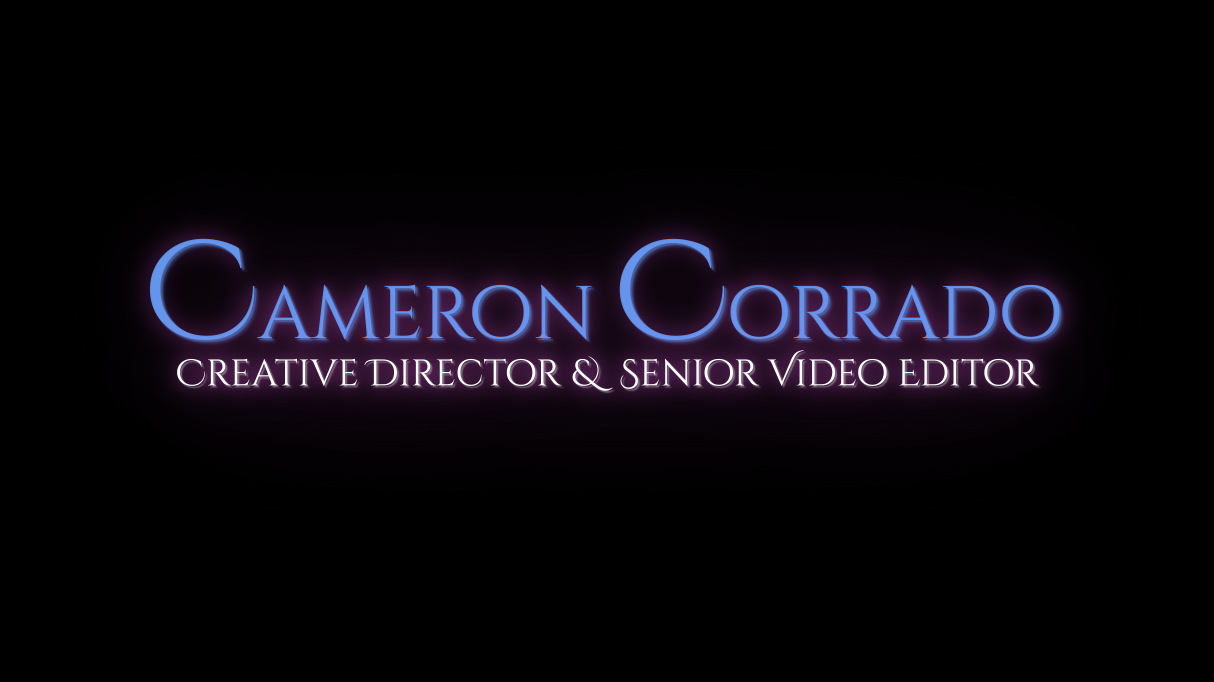
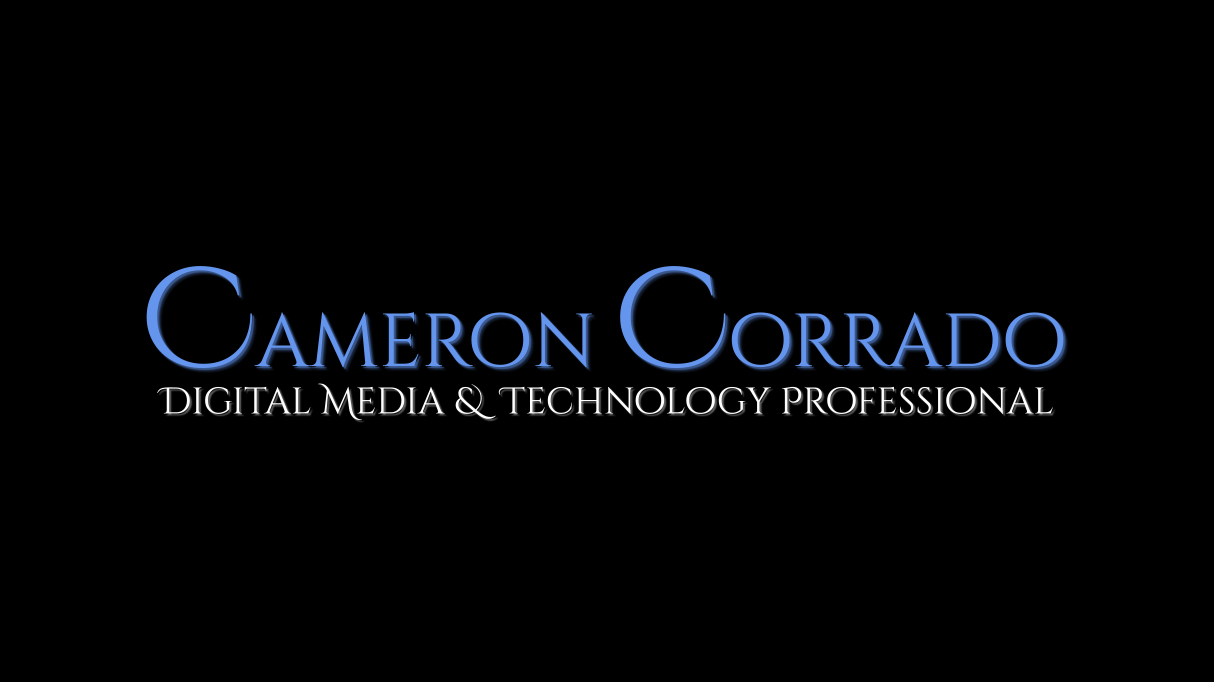
Updated title

Changed region(s): [[0.0914, 0.3387, 0.8839, 0.6158]]

diff --git a/index.html b/index.html
@@ -8,16 +8,16 @@
     <link rel="manifest" href="/site.webmanifest">
     <link rel="preconnect" href="https://fonts.googleapis.com">
     <link rel="preconnect" href="https://fonts.gstatic.com" crossorigin>
-    <link href="https://fonts.googleapis.com/css2?family=Cinzel+Decorative:wght@400;700;900&family=Crimson+Text:ital,wght@0,400;0,600;0,700;1,400;1,600;1,700&display=swap" rel="stylesheet">    <meta property="og:title" content="Cameron Corrado's Portfolio (Creative Director & Senior Video Editor)">
+    <link href="https://fonts.googleapis.com/css2?family=Cinzel+Decorative:wght@400;700;900&family=Crimson+Text:ital,wght@0,400;0,600;0,700;1,400;1,600;1,700&display=swap" rel="stylesheet">    <meta property="og:title" content="Cameron Corrado's Portfolio (Digital Media & Technology Professional)">
     <meta property="og:image" content="/WebsiteBanner.jpg">
     <meta property="og:url" content="https://www.camcorrado.com/">
     <meta property="og:type" content="website">
-    <meta property="og:description" content="Cameron Corrado's Portfolio (Creative Director & Senior Video Editor)">
+    <meta property="og:description" content="Cameron Corrado's Portfolio (Digital Media & Technology Professional)">
     <meta name="viewport" content="width=device-width, initial-scale=1" />
     <meta name="theme-color" content="#000000" />
     <meta
       name="Cameron Corrado's Portfolio"
-      content="Creative Director & Senior Video Editor Portfolio"
+      content="Digital Media & Technology Professional Portfolio"
     />
     <title>Cameron Corrado's Portfolio</title>
   </head>

diff --git a/src/Components/Code/Projects/Projects.jsx b/src/Components/Code/Projects/Projects.jsx
@@ -1,4 +1,4 @@
-import PORTFOLIO from "./Pics/PortfolioLanding.jpg";
+import PORTFOLIO from "./Pics/PortfolioLanding.png";
 import MEMORY from "./Pics/MemoryGame.png";
 import UICHALLENGES from "./Pics/UIChallenges.png";
 import DBD from "./Pics/DBDQuiz.png";
@@ -9,7 +9,7 @@ import GARDENR from "./Pics/Gardenr.jpg";
 const projects = [
   {
     id: 0,
-    name: "Creative Director & Senior Video Editor Portfolio",
+    name: "Digital Media & Technology Professional Portfolio",
     image: PORTFOLIO,
     alt: "Portfolio Screenshot",
     description: `Pretty meta, right? I hope you're enjoying your experience here on my responsive portfolio!`,

diff --git a/src/Components/Landing/Landing.jsx b/src/Components/Landing/Landing.jsx
@@ -13,7 +13,7 @@ export default class Landing extends Component {
           <img
             src={nameAndTitle}
             className="nameImage"
-            alt="Cameron Corrado - Creative Director & Senior Video Editor"
+            alt="Cameron Corrado - Digital Media & Technology Professional"
           />
         </section>
         <video

diff --git a/README.md b/README.md
@@ -1,8 +1,8 @@
-# Creative Director & Senior Video Editor Portfolio
+# Digital Media & Technology Professional Portfolio
 
 ## Screenshots
 
-![Landing Page](https://i.imgur.com/RT7DFtx.jpeg)
+![Landing Page](https://i.imgur.com/ZSZ5IoM.png)
 
 ## Built With
 
